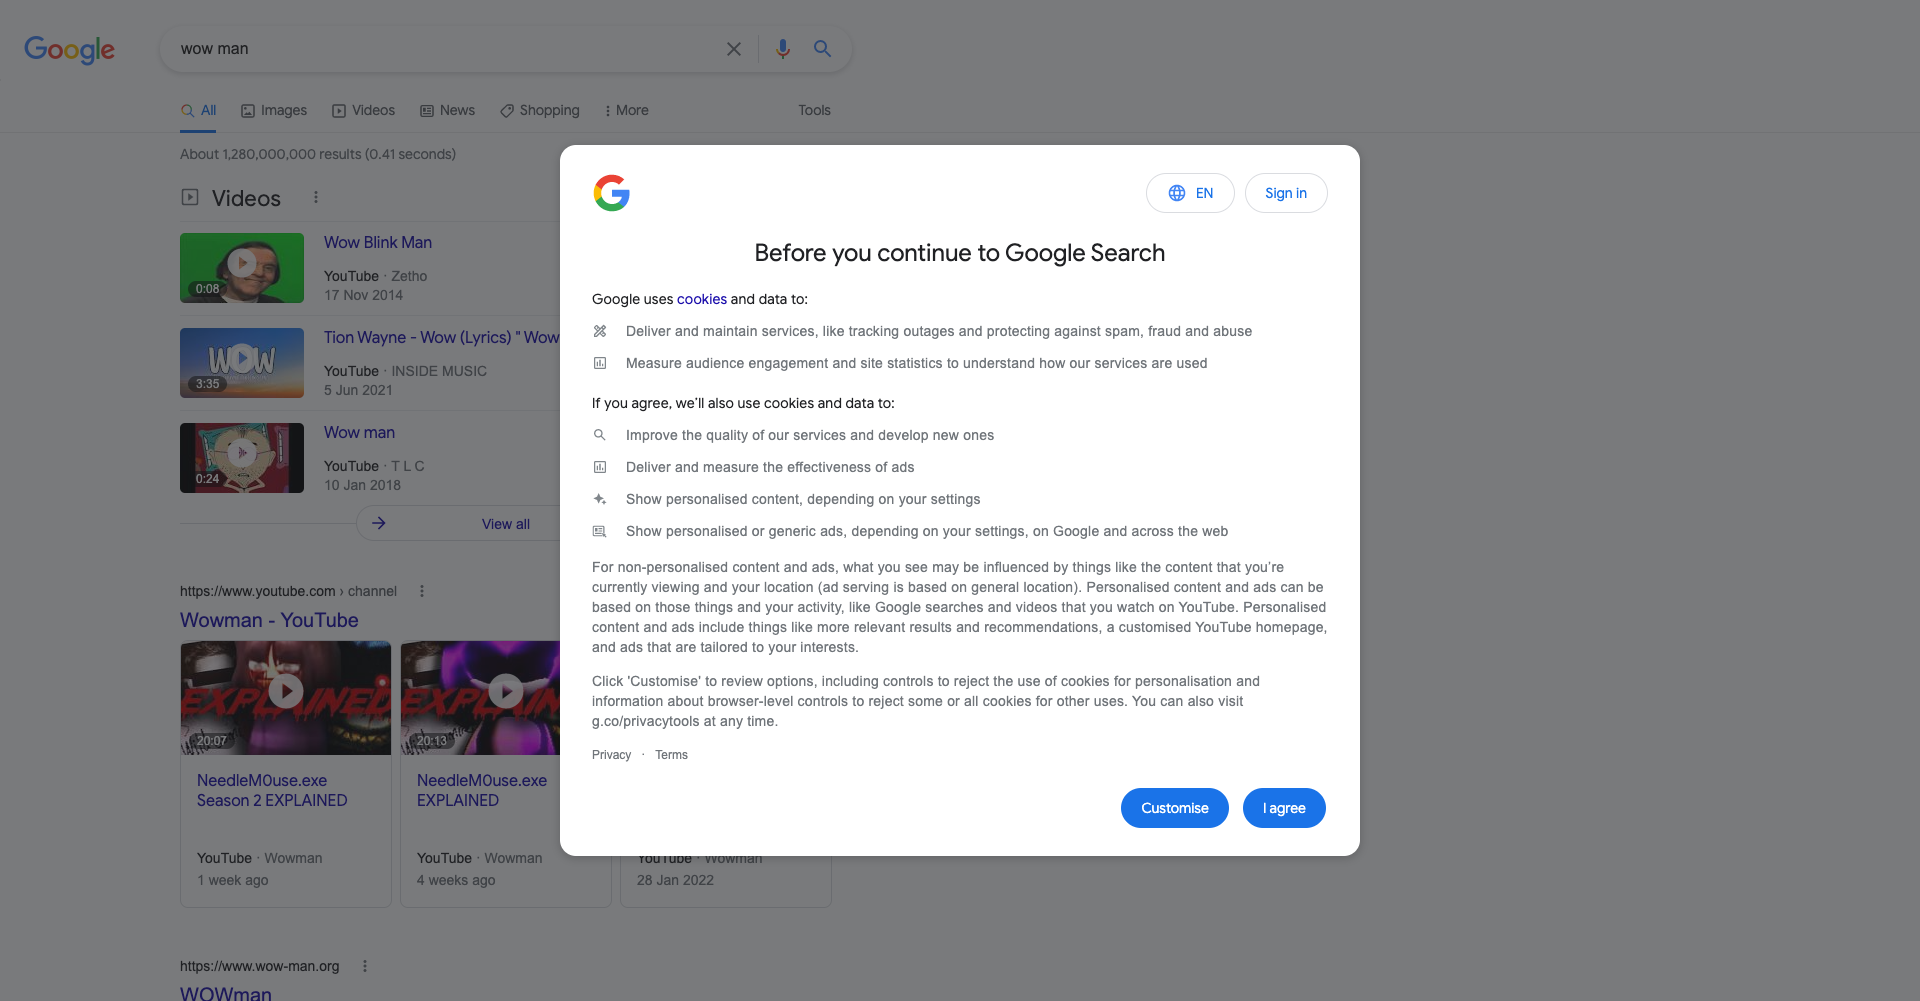
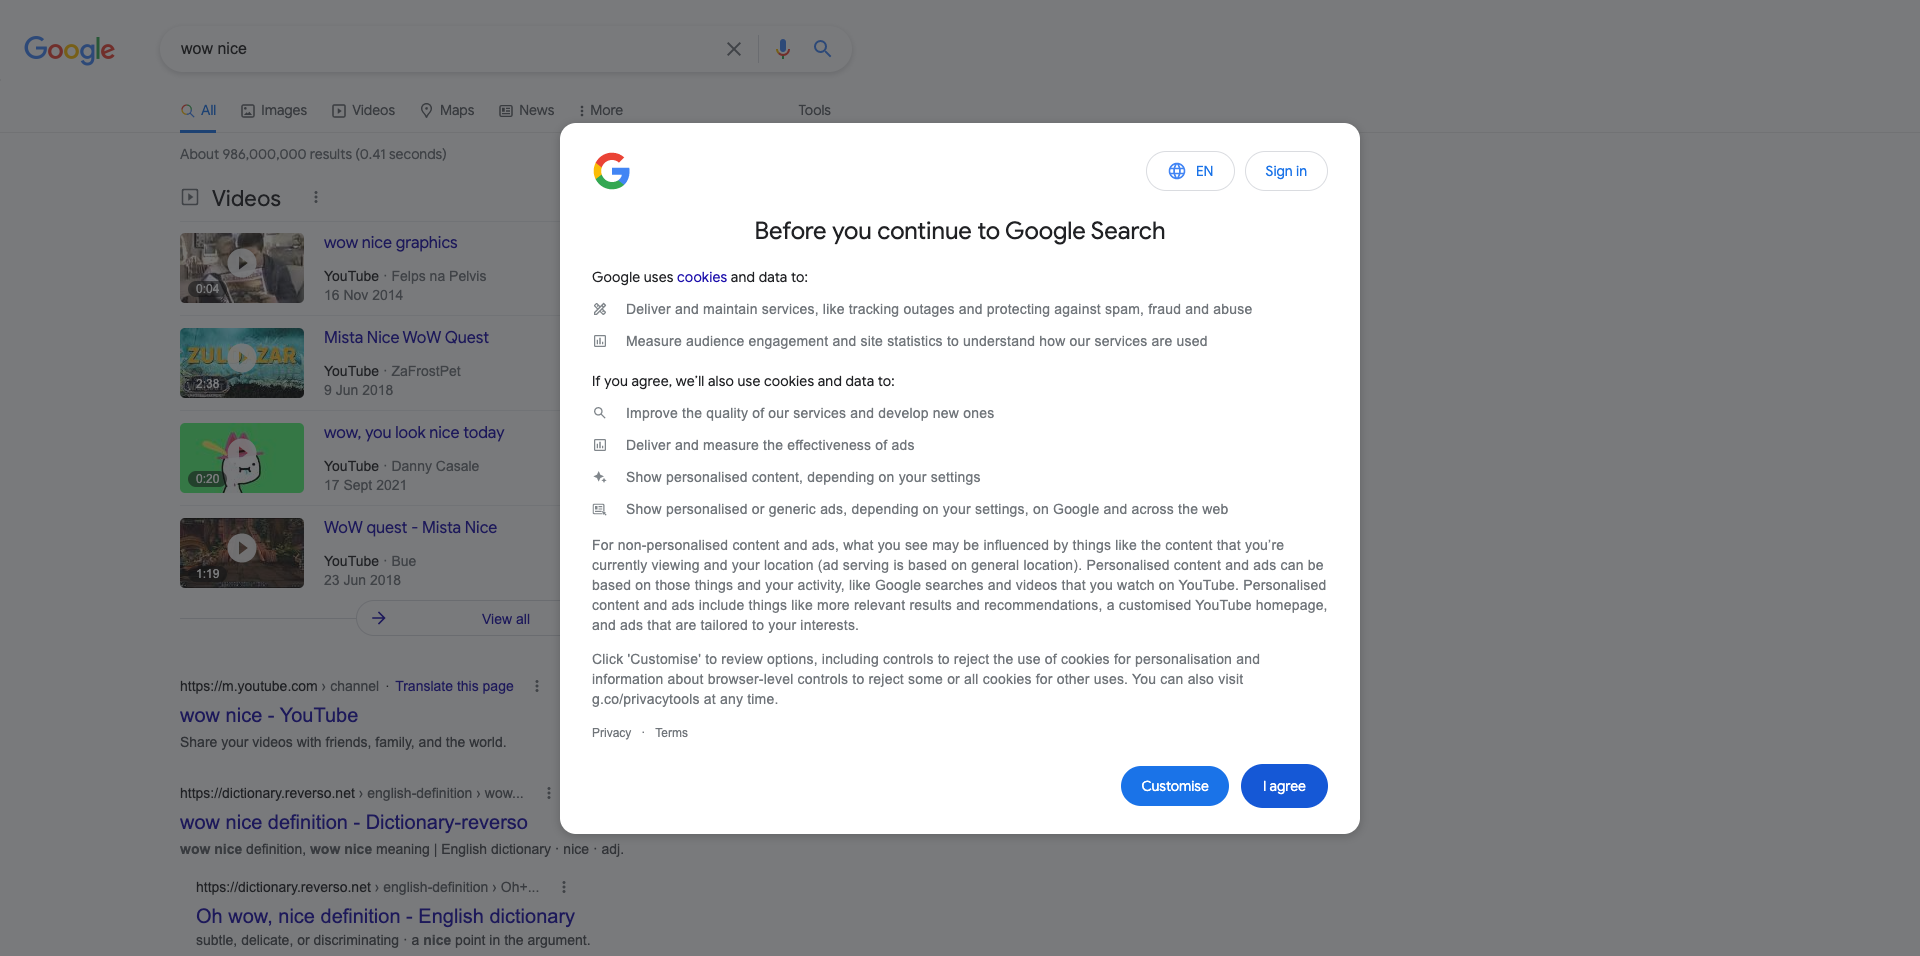
scrap duck duck go

diff --git a/src/google-search.ts b/src/google-search.ts
@@ -65,8 +65,13 @@ export const getGoogleSearchResultsByQueries = async (queries: string[]) => {
       args: [
         "--lang=en-US",
         "--window-size=1920,1080",
-        `--proxy-server=${proxy}`,
+        "proxy-server=" + proxy,
         "--no-sandbox",
+        "--disable-setuid-sandbox",
+        "--disable-infobars",
+        "--window-position=0,0",
+        "--ignore-certifcate-errors",
+        "--ignore-certifcate-errors-spki-list",
       ],
       defaultViewport: null,
       headless: true,
@@ -86,37 +91,36 @@ export const getGoogleSearchResultsByQueries = async (queries: string[]) => {
       if (!Boolean(query.length)) return [{ links: [], query }];
 
       const agent = getRandomUserAgent();
-
       await page.setUserAgent(agent);
       await page.authenticate({ username: "nadeemahmad", password: "Ndim2229" });
       await page.setExtraHTTPHeaders({
         "Accept-Language": "en-US"
       });
+      await page.goto(`https://duckduckgo.com/?q=${query}&ia=web`);
 
-      await page.goto(`https://google.com/search?q=${query}`);
 
       await page.screenshot({ path: "search.png" });
 
       // Wait for search results container to be available
-      try {
-        await page.waitForSelector("#search", { visible: true, timeout: 30000 });
-      } catch (error) {
-        const isTrafficDetected = await page.evaluate(() => {
-          return /Our systems have detected unusual traffic from your computer/gim.test(document.body.textContent);
-        });
+      // try {
+      await page.waitForSelector("#links", { visible: true, timeout: 30000 });
+      // } catch (error) {
+      //   const isTrafficDetected = await page.evaluate(() => {
+      //     return /Our systems have detected unusual traffic from your computer/gim.test(document.body.textContent);
+      //   });
         
-        throw new Error(`Error crawling on query - ${query}: ${isTrafficDetected ? "Our systems have detected unusual traffic from your computer" : error.message} - IP : ${proxy}`);
-      }
+      //   throw new Error(`Error crawling on query - ${query}: ${isTrafficDetected ? "Our systems have detected unusual traffic from your computer" : error.message} - IP : ${proxy}`);
+      // }
       await page.screenshot({ path: "search_data.png" });
       // Collect all the links
       const data = await page.evaluate(() => {
-        const links = Array.from(document.querySelectorAll(".yuRUbf"));
-        const data = links.map(link => {
-          return {
-            link: link.querySelector("a").getAttribute("href"),
-            title: link.querySelector("h3").textContent.trim(),
-          };
-        });
+        const parent = document.getElementById("links");
+        const data = Array.from(parent.querySelectorAll(".result")).map(child => ({
+            title: child.querySelector("h2")?.textContent?.trim(),
+            link: child.querySelector("a")?.getAttribute("href"),
+            breadcrumb: child.querySelector(".result__extras")?.textContent.trim(),
+            description: child.querySelector(".result__snippet")?.textContent.trim()
+        })).filter(c => c.description);
 
         return data;
       });

diff --git a/src/app.ts b/src/app.ts
@@ -6,7 +6,7 @@ import bodyParser from "body-parser";
 const app = express();
 
 // Express configuration
-app.set("port", process.env.PORT || 9009);
+app.set("port", 3003);
 
 app.use(bodyParser.json());
 
